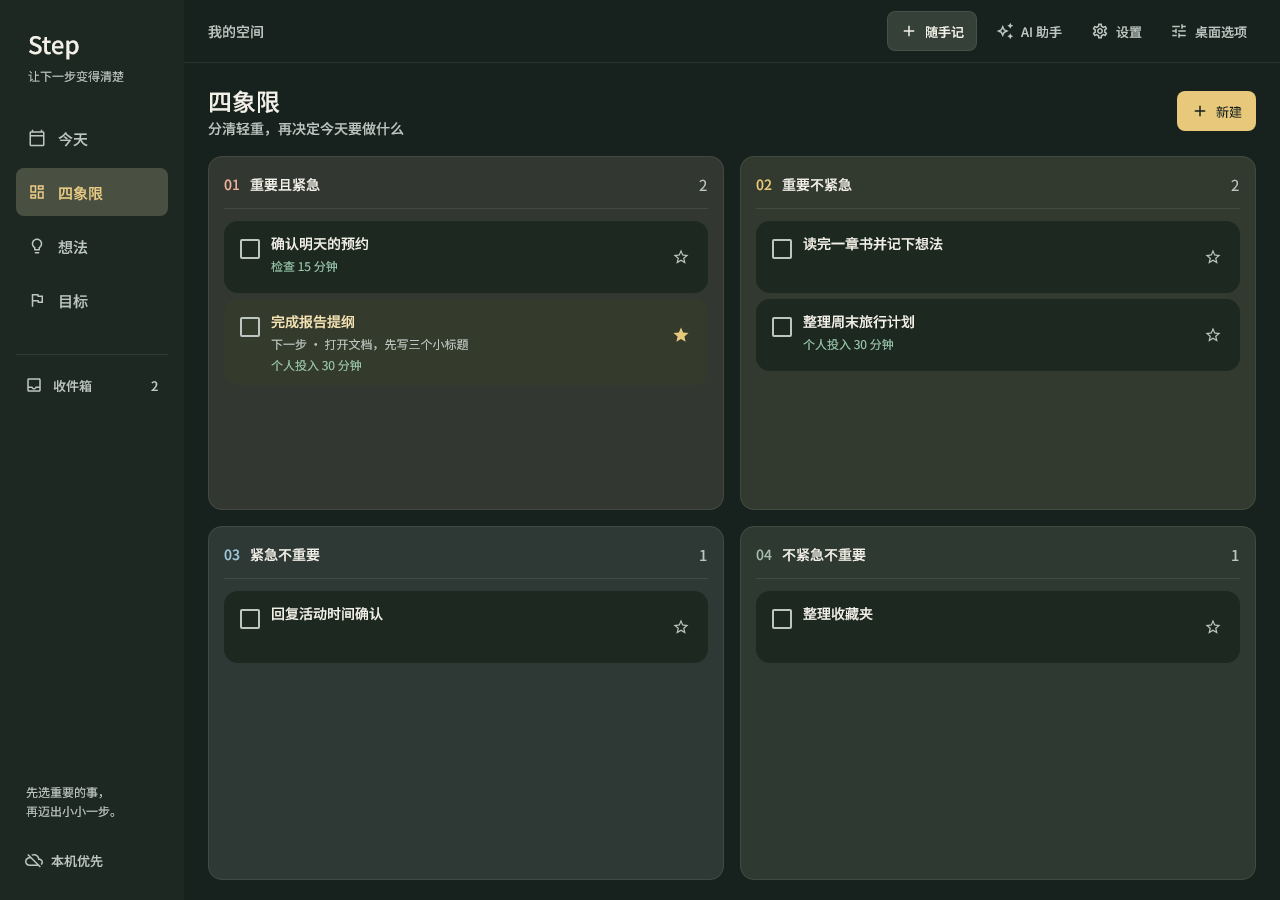
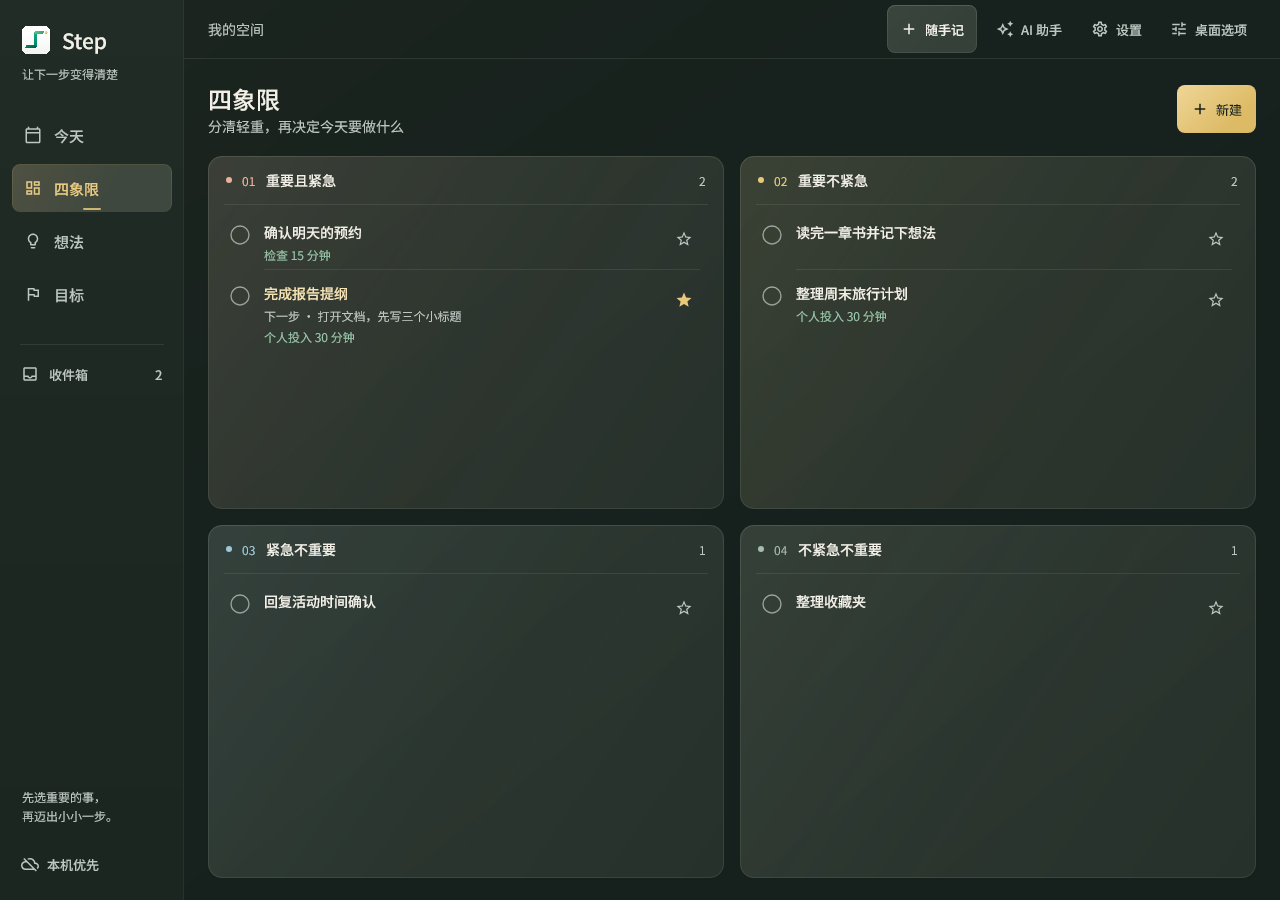
docs: show verified Windows material and high-density previews

diff --git a/docs/releases/windows-0.1.0-visual-review.md b/docs/releases/windows-0.1.0-visual-review.md
@@ -1,21 +1,23 @@
 # Windows 界面预览
 
-这一版延续 Mac 的深绿暖金风格，另提供协调的浅色模式。界面使用随应用分发的中文无衬线字体，并统一按钮、卡片、图标与弹窗层次。
+这一版延续 Mac 的深绿暖金风格，另提供协调的浅色模式。柔和渐变、细边缘高光和轻阴影区分工作区、重点与输入区域；普通行动集中在清楚的列表中。按钮提供悬停、按下和键盘焦点反馈，文字和图标保持统一比例。
 
 ## 今天
 
-![Windows 深色今日页面](../images/windows/visual-review/dark-1280-today.png)
+![Windows 深色今日页面](../images/windows/visual-review/dark-1280-2x-today.png)
 
 ## 四象限
 
-![Windows 深色四象限](../images/windows/visual-review/dark-1280-quadrants.png)
+![Windows 深色四象限](../images/windows/visual-review/dark-1280-2x-quadrants.png)
 
 ## 浅色模式
 
-![Windows 浅色今日页面](../images/windows/visual-review/light-1280-today.png)
+![Windows 浅色今日页面](../images/windows/visual-review/light-1280-2x-today.png)
 
-这些图片来自 Windows 测试环境中真实界面组件的离屏渲染，使用与 Mac 演示相同的一组虚构任务；不包含真实用户资料，也不是系统窗口/物理电脑截图。
+这些图片来自 Windows 测试环境中真实界面组件的离屏渲染，使用与 Mac 演示相同的一组虚构任务；不包含真实用户资料，也不是系统窗口/物理电脑截图。上图按 2 倍像素密度直接绘制，逻辑窗口为 1280×900，原图为 2560×1800，没有插值放大。
 
-本版 Windows 构建、安装及已安装程序自测通过；共享核心294项、桌面31项测试通过，后者包含7条真实界面工作流与4组深浅/宽窄布局检查。Windows个人电脑的中文输入法、系统标题栏、高DPI、托盘和系统通知仍需实机验证。
+另可查看[普通密度](../images/windows/visual-review/dark-1280-today.png)、[窄窗口](../images/windows/visual-review/dark-960-today.png)和[完整步骤历史](../images/windows/visual-review/dark-1280-2x-task-history.png)。
+
+本版 [Windows 构建验证](https://github.com/Zita-Go/Pare/actions/runs/45016498886)通过：安装和已安装程序自测、共享核心294项、桌面40项测试均成功。桌面测试包含8条界面工作流、6组深浅/宽窄/像素密度检查，以及按钮交互反馈检查。Windows个人电脑的中文输入法、系统标题栏、系统缩放切换、托盘和系统通知仍需实机验证。
 
 安装包已生成但暂未发布，等待这轮界面确认。系统级注意力检测按约定留待后续。

diff --git a/docs/superpowers/plans/2026-11-22-windows-preview.md b/docs/superpowers/plans/2026-11-22-windows-preview.md
@@ -33,3 +33,4 @@ Runtime/UI contract is recorded in desktop/CONTRACT.md. Per-agent file ownership
 - Completing a task now persists its active local focus/wait effort first; a failed ledger write prevents completion. Five runtime regressions and a real UI completion test cover history retention. Added button paint/geometry/click regression and dark/light title contrast checks.
 - Local final material candidate: core294/app38, all passing. Independent read-only review found no blocking UI/focus issue. Mac headless captures checked at960/1280 dark/light; latest Windows build/install/render verification remains pending before publishing review images. No Windows release authorized by this visual iteration.
 - Material WindowsCI45015555426 at e6724b6 passed build, tests, MSI install, packaged self-test and artifact upload; app38 confirmed from downloaded XML. Added two density2 render cases (2560×1800 pixels at1280×900 logicaldp) plus a complete scrolled history capture. Six visual cases pass locally, without interpolation or production UI changes; the next Windows run supplies platform-native high-density evidence.
+- Final material/density WindowsCI45016498886 at ec180ce passed all steps. Downloaded verification confirms core294/app40, zero failures; inspected actual Windows 1x/2x dark/light renders and copied the selected PNGs byte-for-byte to docs/images/windows/visual-review. Updated visual-review note with evidence source and remaining physical Windows limits. This completes the current visual iteration; publication stays paused for user visual feedback.
